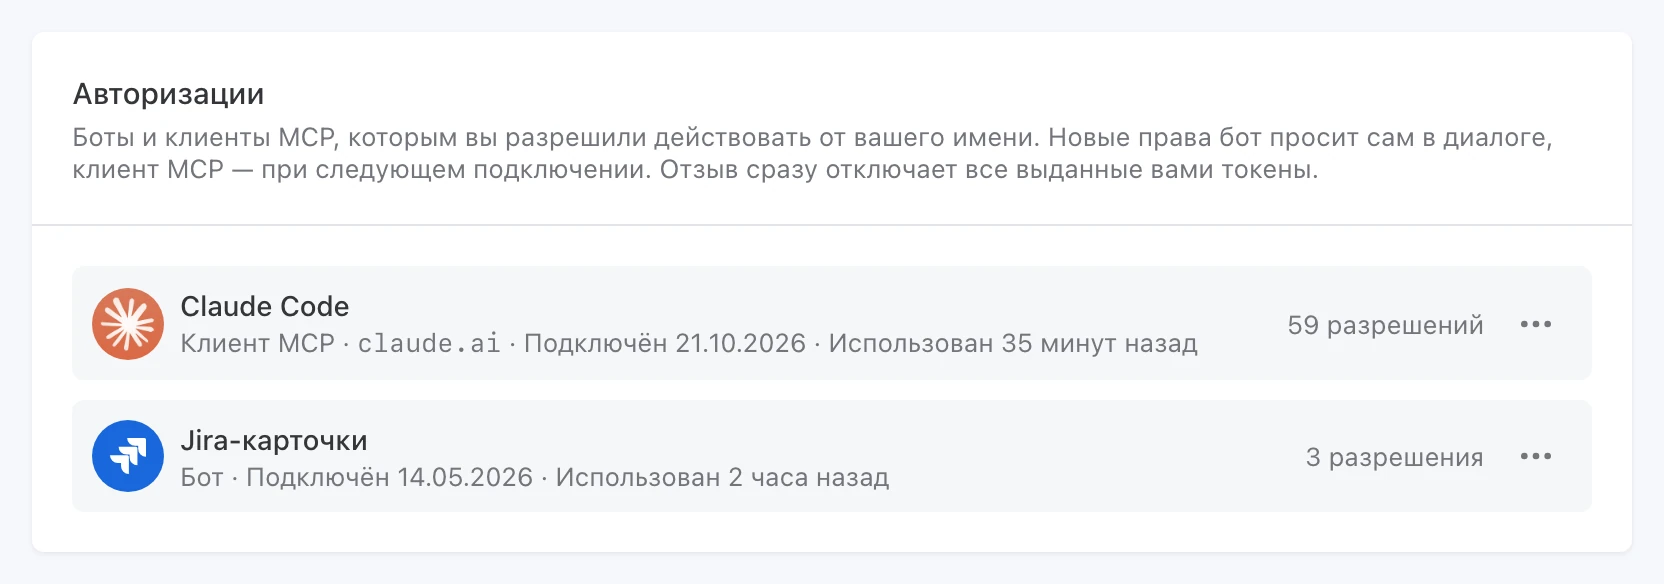
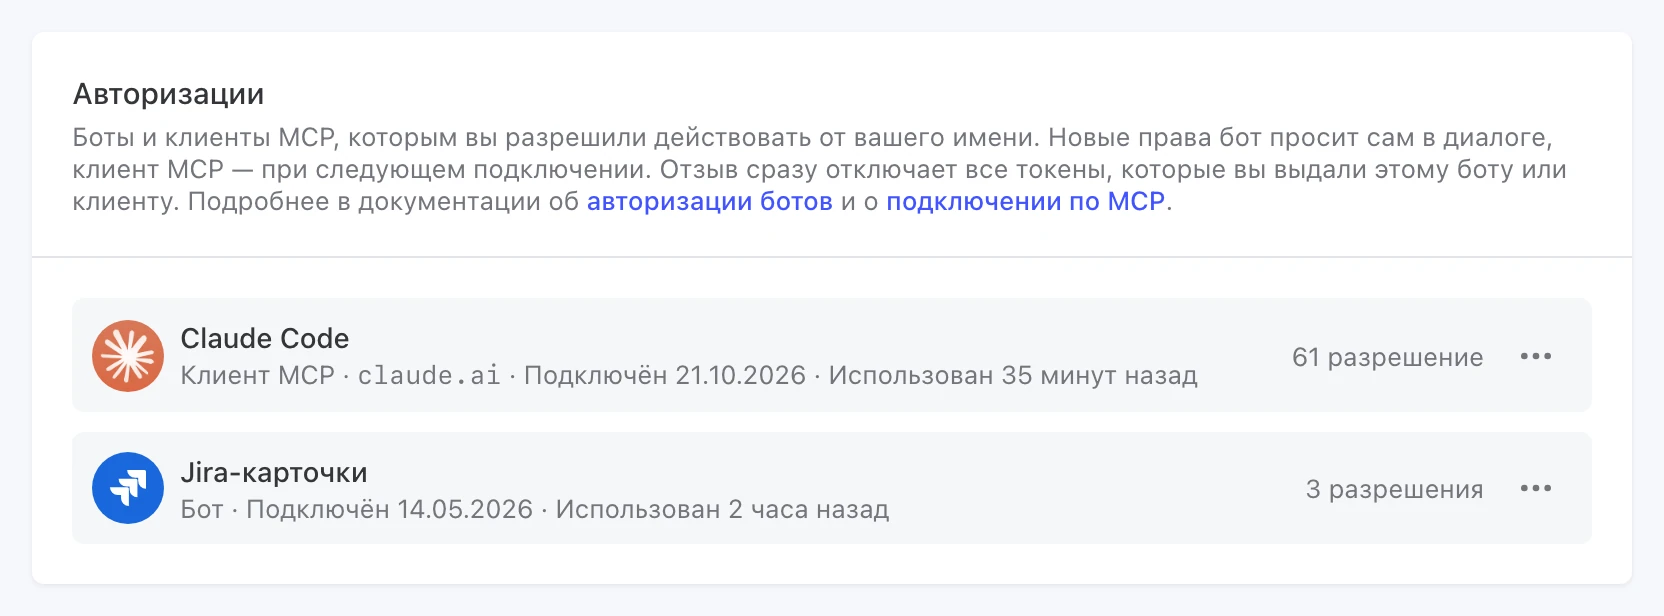
Дока: экран согласия с правами по категориям, новая подпись «Авторизаций» и плашка об обновлении продукта
- Пересняты кадры экрана согласия бота и программы с MCP: запрашиваемые права собраны в свёрнутые категории с числом прав в каждой.
- Пересняты кадры списка «Авторизации»: подпись одна для любого списка и ведёт в документацию, у Claude Code 61 разрешение.
- Текст про экран согласия в гайдах OAuth, MCP и CLI описывает категории, подписи к кадрам обновлены.
- Плашка «Обновления продукта» на странице обновлений ведёт на выпуск 28 октября «MCP-сервер Пачки».

diff --git a/apps/docs/components/mdx/mdx-components.tsx b/apps/docs/components/mdx/mdx-components.tsx
@@ -598,8 +598,8 @@ export async function ScopeRoles() {
 
 // Update manually when a new product release goes out
 const LATEST_PRODUCT_UPDATE = {
-  date: '15 октября 2026',
-  title: 'Большое обновление ботов 🤖',
+  date: '28 октября 2026',
+  title: 'MCP-сервер Пачки 🔌',
 };
 
 export function ProductUpdatesLink() {

diff --git a/apps/docs/public/guides/oauth/consent.md b/apps/docs/public/guides/oauth/consent.md
@@ -9,7 +9,7 @@
 
 Кнопка авторизации открывает экран согласия в веб-версии Пачки.
 
-![Экран согласия: «Авторизовать Jira-карточки?», пространство, почта сотрудника, запрашиваемые разрешения и кнопки «Отменить» и «Разрешить»](/images/oauth/consent.webp)
+![Экран согласия: «Авторизовать Jira-карточки?», пространство, почта сотрудника, запрашиваемые разрешения в свёрнутых категориях и кнопки «Отменить» и «Разрешить»](/images/oauth/consent.webp)
 
 *Экран согласия*
 
@@ -18,7 +18,7 @@
 
 - вопрос «Авторизовать …?» с именем бота и рядом два аватара — свой и бота;
 - пространство и свою почту — чтобы не выдать доступ из чужого аккаунта;
-- **Запрашиваемые разрешения** — набор из настроек бота, а когда прав много, они сгруппированы по категориям;
+- **Запрашиваемые разрешения** — набор из настроек бота, собранный в свёрнутые категории с числом прав в каждой. Права категории видны по щелчку;
 - кнопки **Разрешить** и **Отменить**.
 
 После **Разрешить** браузер сразу возвращается на адрес бота с кодом авторизации. **Отменить** возвращает браузер назад, и бот ничего не получает.
@@ -50,7 +50,7 @@
 
 Все боты, которым сотрудник выдал доступ, собраны в списке **Авторизации** на странице **Интеграции** > **API**, рядом с программами с AI-агентами, подключёнными к MCP-серверу Пачки. Что видно в списке — в разделе [Токены CLI и авторизации](/api/authorization#tokeny-cli-i-avtorizatsii).
 
-![Список «Авторизации» на странице «API»: боты, дата подключения, последнее использование и число разрешений](/images/oauth/authorizations.webp)
+![Список «Авторизации» на странице «API»: подпись со ссылками на документацию, боты, дата подключения, последнее использование и число разрешений](/images/oauth/authorizations.webp)
 
 *Список «Авторизации»*
 

diff --git a/apps/docs/public/guides/oauth/overview.md b/apps/docs/public/guides/oauth/overview.md
@@ -34,7 +34,7 @@
 
 На экране согласия видны имя бота, пространство и запрашиваемые права. Сотрудник нажимает **Разрешить**.
 
-![Экран согласия: «Авторизовать Jira-карточки?», пространство, почта сотрудника, запрашиваемые разрешения и кнопки «Отменить» и «Разрешить»](/images/oauth/consent.webp)
+![Экран согласия: «Авторизовать Jira-карточки?», пространство, почта сотрудника, запрашиваемые разрешения в свёрнутых категориях и кнопки «Отменить» и «Разрешить»](/images/oauth/consent.webp)
 
 *Экран согласия*
 
@@ -43,7 +43,7 @@
 
 Браузер возвращается на адрес вашего сервера с кодом, сервер обменивает код на токен сотрудника. Бот появляется у сотрудника в списке **Авторизации** на странице **API**, а в витрине у бота — отметка **Подключено**.
 
-![Список «Авторизации» на странице «API»: боты, дата подключения, последнее использование и число разрешений](/images/oauth/authorizations.webp)
+![Список «Авторизации» на странице «API»: подпись со ссылками на документацию, боты, дата подключения, последнее использование и число разрешений](/images/oauth/authorizations.webp)
 
 *Бот в списке «Авторизации»*
 
